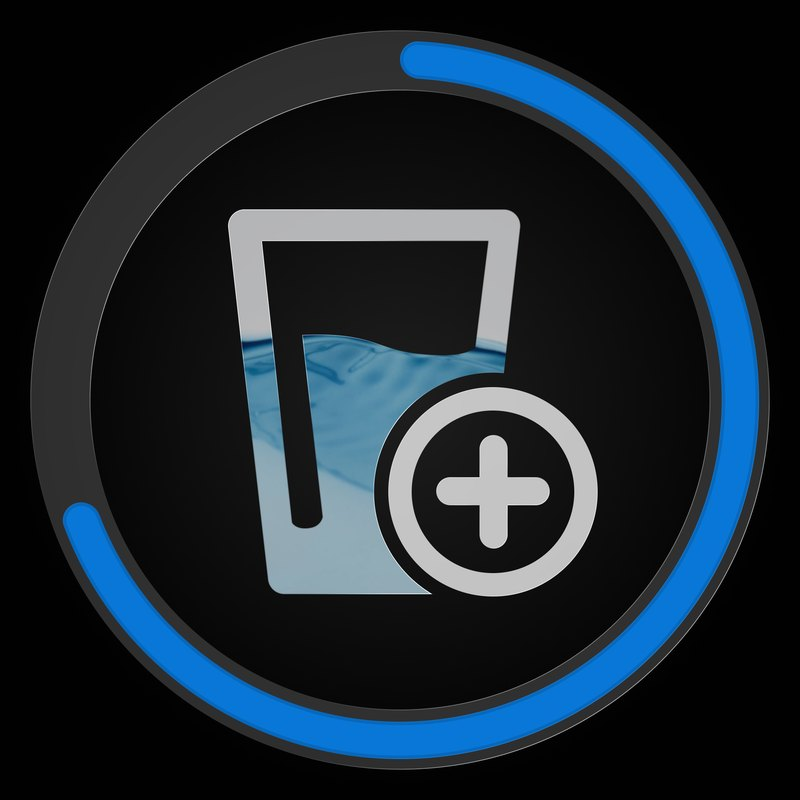
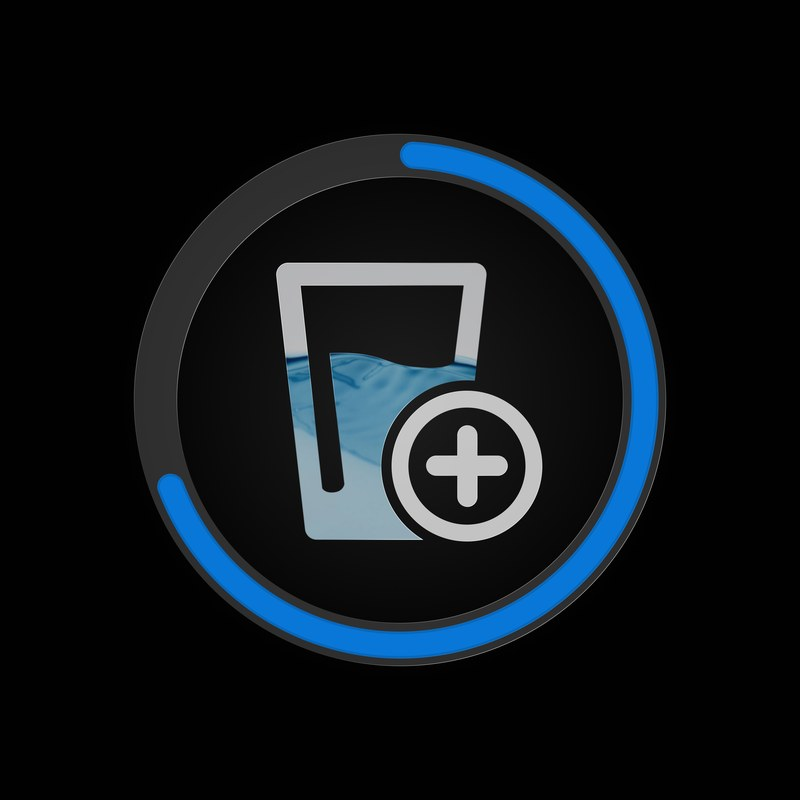
Frame the Drink Water! shot and shorten its eyebrow
The artwork ran edge to edge, so the ring collided with the card's
rounded corners. It now occupies 72% of the square with a black margin
around it, matched to the source's own near-black so the seam is
invisible.

Hero eyebrow drops to "Widget" - the product type, consistent with the
homepage kicker and the sibling rails. The heading beneath already says
what it does.

diff --git a/drinkwater/index.html b/drinkwater/index.html
@@ -584,7 +584,7 @@
     <!-- Hero -->
     <section class="hero section">
       <div class="hero-copy">
-        <p class="eyebrow">Hydration widget</p>
+        <p class="eyebrow">Widget</p>
         <h1>Drink Water!</h1>
         <p class="hero-lede">
           A Garmin widget that tracks your water intake from your wrist in about two seconds. Open it, pick your glass, done - the ring fills as you drink and turns green the moment you hit your goal.
